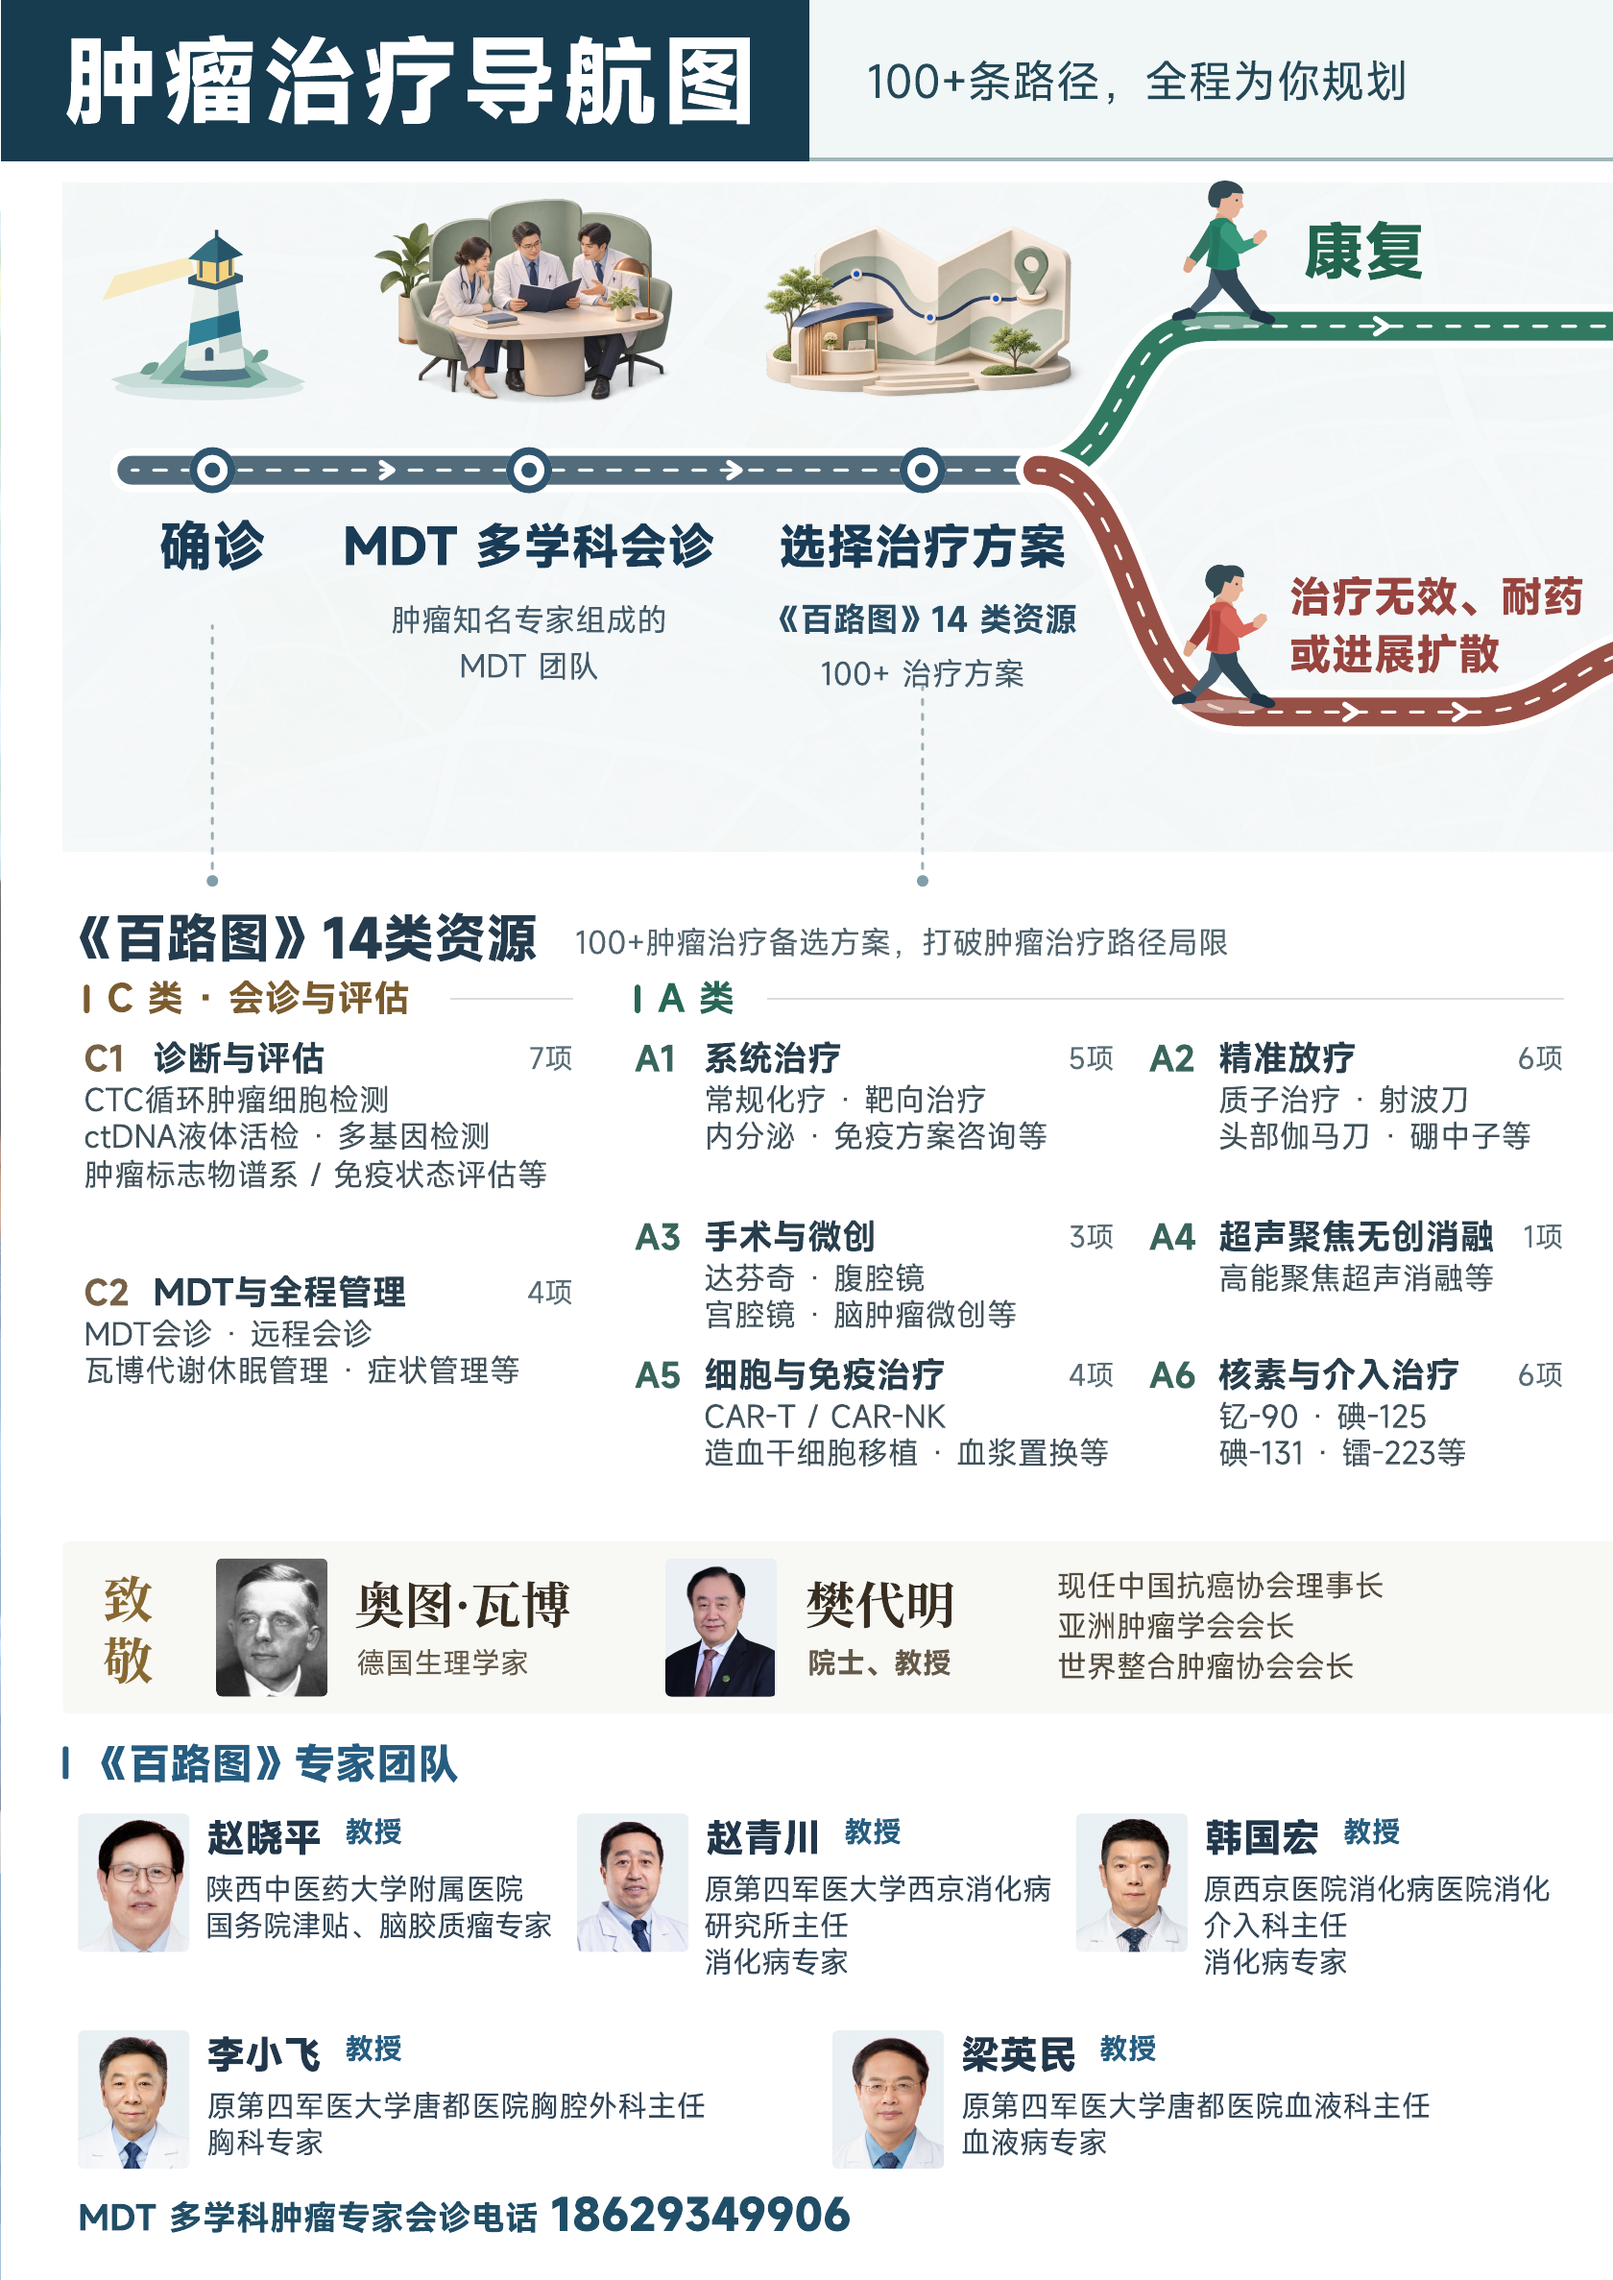
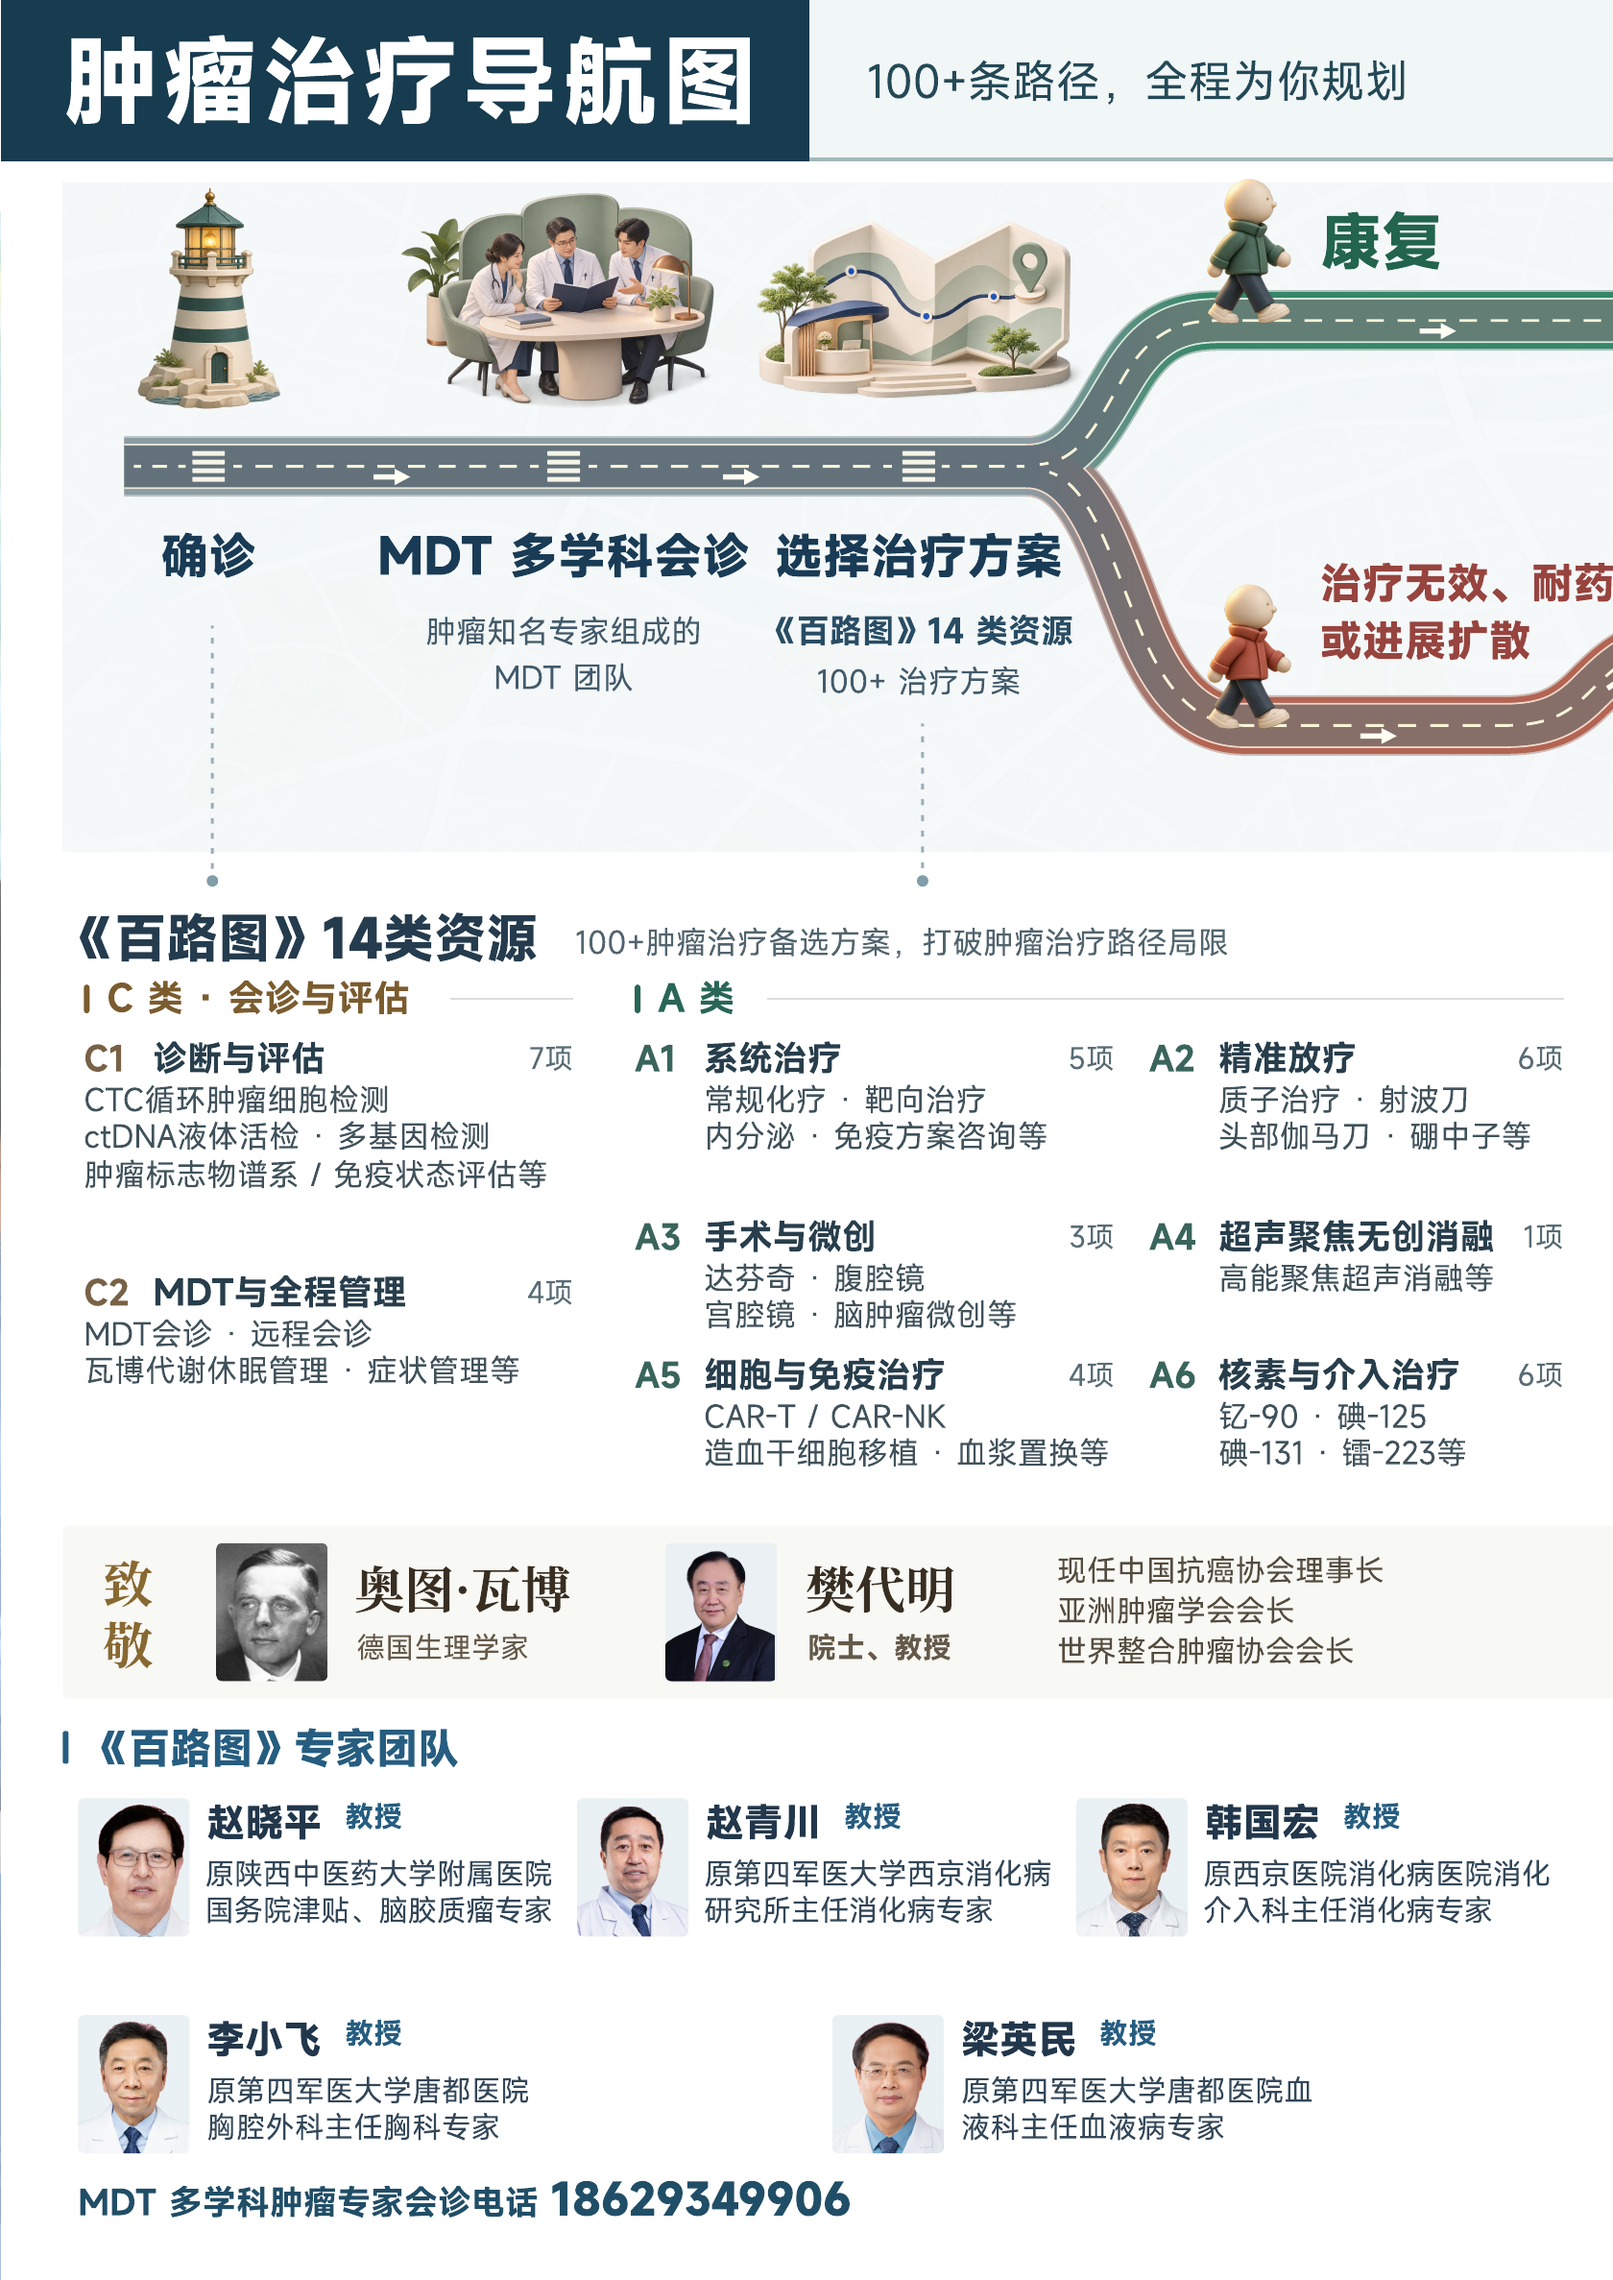
Update patient roads and 3D illustrations on the map

diff --git a/index.html b/index.html
@@ -1,5 +1,5 @@
 <!doctype html>
-<html lang="zh-CN" data-edition="map-6a428ab0b">
+<html lang="zh-CN" data-edition="map-d1698aecc">
 <head>
 <meta charset="utf-8">
 <meta name="viewport" content="width=device-width, initial-scale=1, viewport-fit=cover">
@@ -7,11 +7,11 @@
 <meta name="robots" content="noindex,nofollow">
 <title>肿瘤治疗导航图 · 三折页</title>
 <link rel="icon" href="mark.svg" type="image/svg+xml">
-<link rel="preload" as="image" href="assets/front-1.webp?v=map-6a428ab0b">
-<link rel="stylesheet" href="viewer.css?v=map-6a428ab0b">
-<link rel="stylesheet" href="paper.css?v=map-6a428ab0b">
-<script src="physics.js?v=map-6a428ab0b" defer></script>
-<script src="viewer.js?v=map-6a428ab0b" defer></script>
+<link rel="preload" as="image" href="assets/front-1.webp?v=map-d1698aecc">
+<link rel="stylesheet" href="viewer.css?v=map-d1698aecc">
+<link rel="stylesheet" href="paper.css?v=map-d1698aecc">
+<script src="physics.js?v=map-d1698aecc" defer></script>
+<script src="viewer.js?v=map-d1698aecc" defer></script>
 </head>
 <body>
 <svg class="symbols" aria-hidden="true" xmlns="http://www.w3.org/2000/svg"><defs>
@@ -28,7 +28,7 @@
 <button type="button" id="read" class="read-link" aria-haspopup="dialog"><svg><use href="#i-book"/></svg><span id="read-label">查看内页</span></button></header>
 <section class="exhibit" aria-label="交互三折页">
 <div id="paper" aria-label="折页模型，左右拖动可展开或收起，轻点折面可放大"></div>
-<noscript><div class="no-js"><img src="assets/front-1.webp?v=map-6a428ab0b" alt="肿瘤治疗导航图封面"><p>请开启 JavaScript 体验折叠，或直接打开图稿。</p><a href="assets/front-2-hd.webp?v=map-6a428ab0b">地图左页</a> · <a href="assets/front-3-hd.webp?v=map-6a428ab0b">地图右页</a> · <a href="assets/back-2-hd.webp?v=map-6a428ab0b">肺癌病例</a> · <a href="assets/back-3-hd.webp?v=map-6a428ab0b">胰腺癌病例</a></div></noscript>
+<noscript><div class="no-js"><img src="assets/front-1.webp?v=map-d1698aecc" alt="肿瘤治疗导航图封面"><p>请开启 JavaScript 体验折叠，或直接打开图稿。</p><a href="assets/front-2-hd.webp?v=map-d1698aecc">地图左页</a> · <a href="assets/front-3-hd.webp?v=map-d1698aecc">地图右页</a> · <a href="assets/back-2-hd.webp?v=map-d1698aecc">肺癌病例</a> · <a href="assets/back-3-hd.webp?v=map-d1698aecc">胰腺癌病例</a></div></noscript>
 </section>
 <footer class="control-area">
 <div class="control-tray" aria-label="折页操作"><div class="fold-steps" role="group" aria-label="开合程度">
